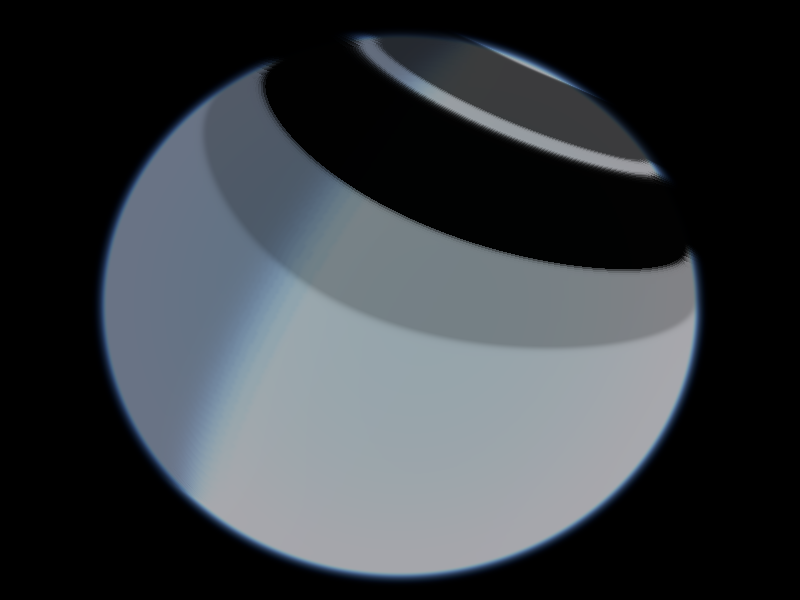
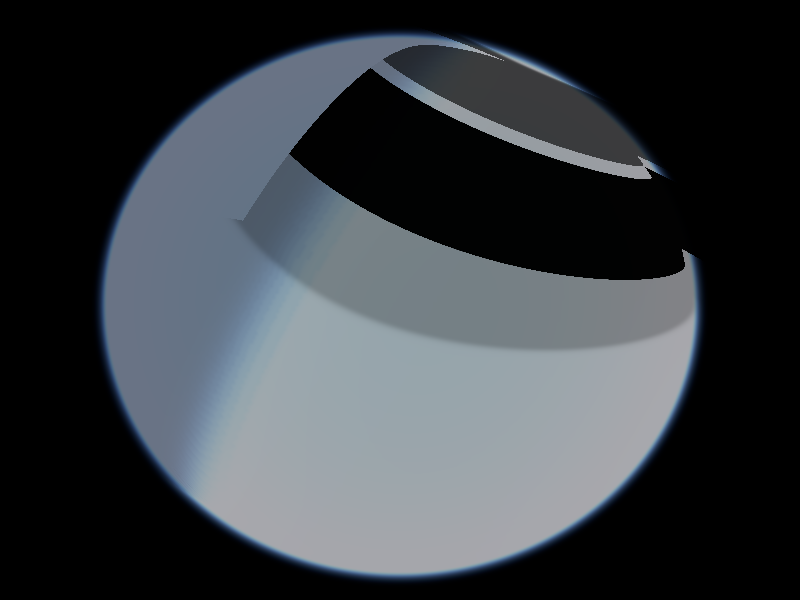
Removed 12-Step Quadrature Loop

Changed region(s): [[0.25, 0.03, 0.875, 0.48]]

diff --git a/README.md b/README.md
@@ -249,7 +249,7 @@ Utilizes a multi-step precomputation technique inspired by Bruneton et al. combi
    - **Mode 0 (`Off`)**: Atmosphere rendering disabled.
    - **Mode 1 (`Low (2D Shadows)`)**: Fast numerical raymarcher with analytical 2D planar ring shadow attenuation.
    - **Mode 2 (`High (Volumetric)`)**: Full volumetric raymarcher with per-step 3D volumetric ring shadow integration, adaptive step dithering, and temporal accumulation.
-   - **Mode 3 (`Analytical (Sky-View + Slicing)`)**: High-performance analytical atmosphere pipeline combining a per-frame 256×256 Sky-View Look-Up Table (`prog_sky_view` / `sky_view_lut.*`) and analytical depth slicing for circumplanetary ring shadows. Precomputes unshadowed in-scattering and view-transmittance, transforms coordinates into the parent planet's axial-tilt local frame where the ring plane is $Y = 0$, solves quadratic equations for ring boundary intersections in $\mathcal{O}(1)$ to isolate the shadow interval $[c_s, c_e]$, and executes an 8-step footprint-filtered quadrature only within the shadow interval to subtract the light deficit $\Delta L$. Produces crisp, pixel-perfect volumetric ring shadows with zero raymarch step noise.
+   - **Mode 3 (`Analytical (Sky-View + Slicing)`)**: High-performance analytical atmosphere pipeline combining a per-frame 256×256 Sky-View Look-Up Table (`prog_sky_view` / `sky_view_lut.*`) and analytical depth slicing for circumplanetary ring shadows. Precomputes unshadowed in-scattering and view-transmittance, transforms coordinates into the parent planet's axial-tilt local frame where the ring plane is $Y = 0$, solves quadratic equations for ring boundary intersections in $\mathcal{O}(1)$ to isolate the shadow interval $[c_s, c_e]$, and evaluates the shadow attenuation in closed-form $\mathcal{O}(1)$ constant time using Simpson's 3-point quadrature for optical depth, footprint-filtered ring opacity, and solid-body shadow occlusion guards. Produces crisp, pixel-perfect volumetric ring shadows in constant time per pixel with zero raymarch step noise.
 4. **Atmospheric Refraction & Lensing**: Calculates physical ray bending derived from surface refractivity ($n_{\text{mix}} - 1$), scale height, and planetary oblateness. Two complementary quantities are shared via `refraction.glsl`: the parallax-weighted apparent displacement (`compute_refraction_angle`) applied to subpixel point lights, orbits, and habitable-zone visuals, and the total un-parallaxed ray turn (`compute_refraction_total`) used for anchored ray-bending in body meshes (`sphere.frag`), volumetric atmospheres (`atmo.frag`), and rings (`ring.frag`). Point lights invert the ray deflection using 12-step bracketed bisection (`solve_refraction_apparent`).
    Above the observer's local horizon, both paths share the ascending-atmosphere `erfcx` correction; mesh rays pivot at the camera rather than a behind-camera periapsis. GPU regression: `python scripts/test_refraction_math.py` checks their alignment from ground and space.
 5. **Distance-Agnostic Focal Lensing**: Supports refraction at arbitrary distances (e.g. Earth's atmosphere refractive lensing and sun-hugging ring effects when viewed from lunar focal distances or when background moons set behind planetary limbs).
